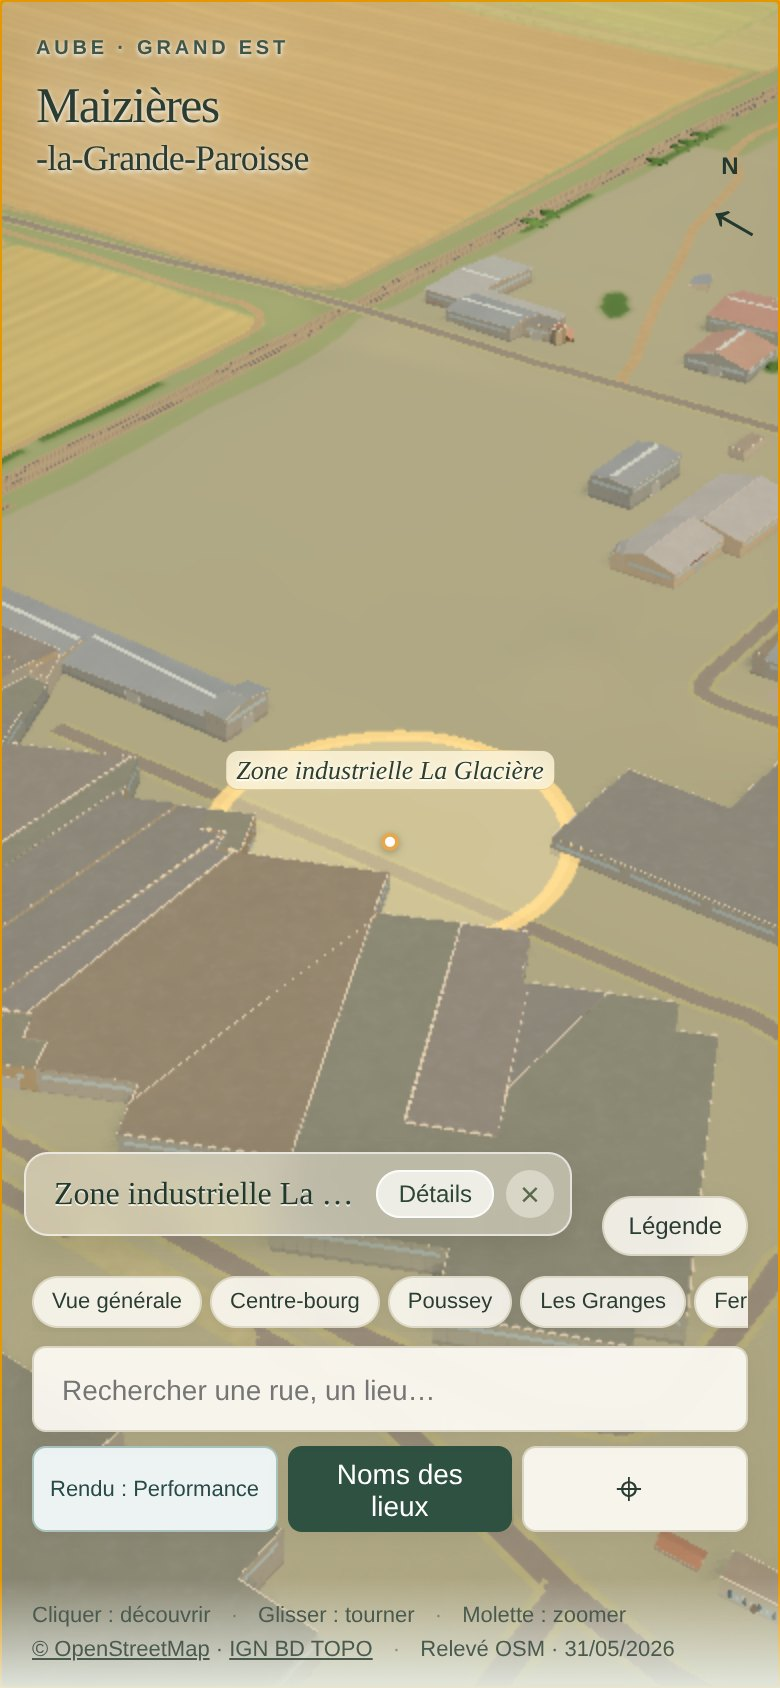
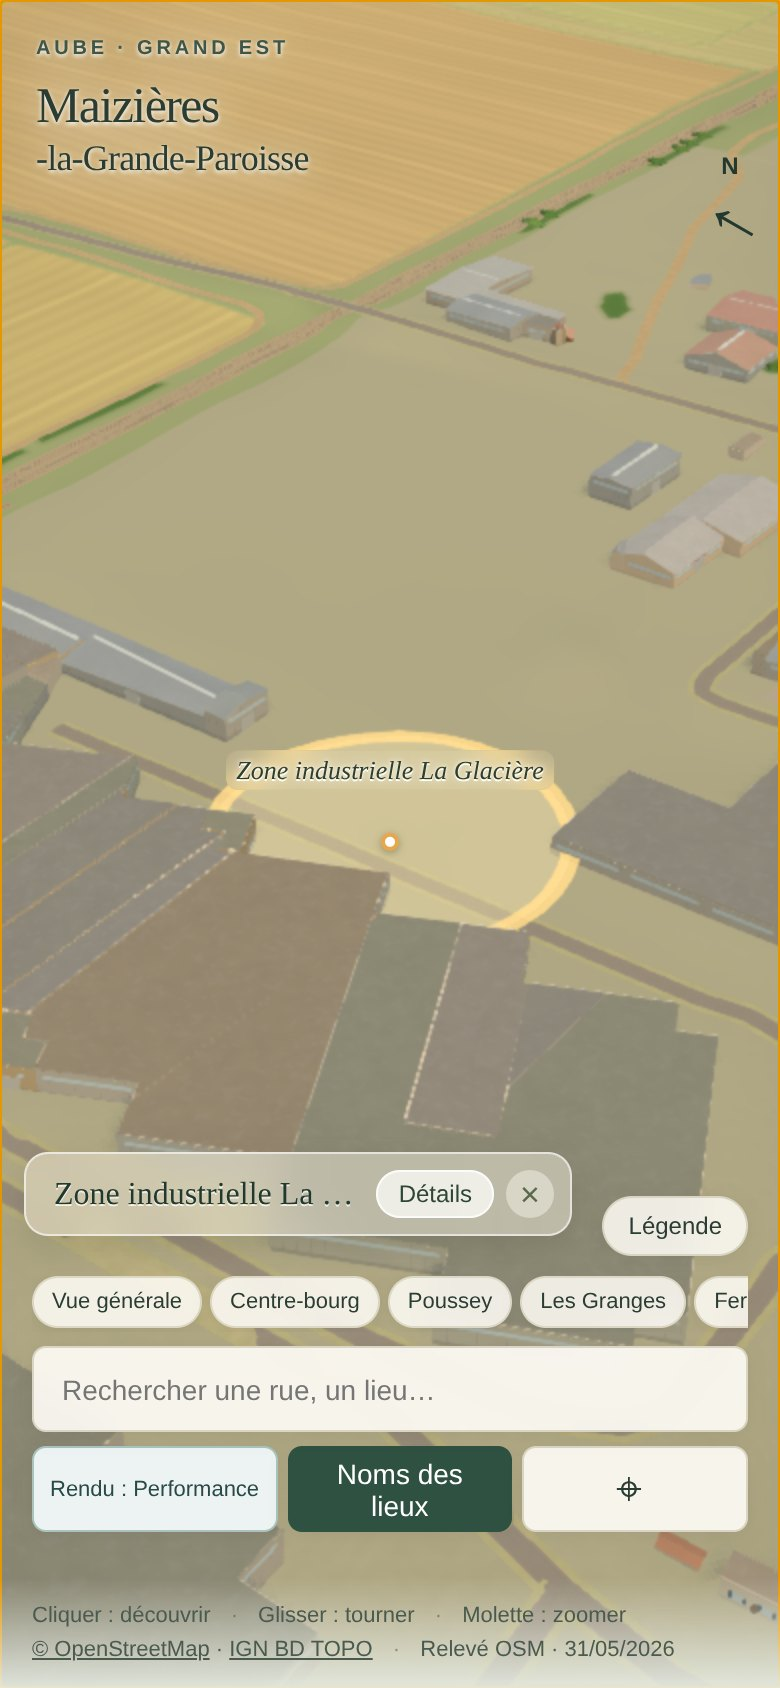
V3.0 - Mobile captures redone with the final build (lite ground, FXAA)
Claude-Session: https://claude.ai/code/session_01KMAuj49r2TEDjaUcKgC9xW

Changed region(s): [[0.2769, 0.4313, 0.7077, 0.4929]]

diff --git a/docs/audit/V3.0_PREMIUM_ENVIRONMENT_ART_PASS.md b/docs/audit/V3.0_PREMIUM_ENVIRONMENT_ART_PASS.md
@@ -132,9 +132,10 @@ La Glacière et les zones d'activité gardent leur caractère fonctionnel :
 Chromium headless, écran tactile émulé, `deviceScaleFactor` 2, preset PERFORMANCE, 390 × 844 et 844 × 390, sept cadrages identiques en V2.9.2 et V3.0 (`docs/qa/v3.0/mobile/`, index et chiffres dans `README.md`).
 
 - **Contours** : la correction des limites se voit aussi sur téléphone. La lisière de bois (`02`) est un escalier de 8 m en V2.9.2 et suit le polygone en V3.0, en portrait comme en paysage ; bords de champs et frange de village sont lisses, sans crénelage, alors que la scène est rendue à un pixel CSS par pixel.
-- **Anti-aliasing** : la V3.0 active SMAA en PERFORMANCE (la V2.9.2 ne l'avait pas dans ce preset). Les silhouettes de toits et de haies sont moins dentelées.
+- **Anticrénelage** : la V3.0 active FXAA (une passe) en PERFORMANCE, où la V2.9.2 n'en avait pas. Les silhouettes de toits et de haies sont moins dentelées. Coût et alternative : § 18.
+- **Sol allégé** : en PERFORMANCE, le shader de sol garde couleurs, limites et sillons mais pas les variations secondaires (prairie, pelouse, sous-bois) : les prairies y sont plus unies.
 - **Fenêtre de détail** : 1 536 px sur 1 000 m (0,65 m par pixel), repeinte au repos.
-- **Coût** : + 2 à + 3 appels de dessin (les passes SMAA), + 0,02 % de triangles (+ 0,8 % sur le centre). Portrait : 47 à 81 appels, 1,77 à 2,40 M triangles ; paysage : 64 à 107 appels, 2,52 à 3,26 M triangles.
+- **Coût** : 0 à + 1 appel de dessin (la passe FXAA), + 0,02 % de triangles (+ 0,8 % sur le centre). Portrait : 48 à 79 appels, 1,77 à 2,40 M triangles ; paysage : 65 à 105 appels, 2,52 à 3,26 M triangles.
 - **Interaction** : église et zone de La Glacière touchées à l'écran, étiquette rapide correcte dans les deux versions ; 2 596 / 2 596 bâtiments, 0 enfoui, console vide. Clics, fiches, recherche et zoom sur trois gabarits : § 22.
 
 
@@ -183,7 +184,7 @@ Grille subjective, notée sur les mêmes captures (BEAUTÉ, 1280 × 800) et sur 
 ## 23. Limites
 
 - **Mesures logicielles.** Tous les chiffres viennent de Chromium headless avec SwiftShader (rendu sur processeur) : ils classent les versions entre elles et ne prédisent pas un GPU réel. Le bruit d'un passage à l'autre atteint ± 5 à 10 % ; d'où les médianes de trois passages alternés (§ 18).
-- **Captures et version finale.** Les captures `compare/`, `environment-edges/` et `mobile/` ont été faites juste avant l'allègement du shader de sol (§ 5, point 5). Sur trois cadrages recapturés après, l'écart moyen est de 0,9 à 1,2 niveau sur 255 par pixel ; les pixels qui diffèrent de plus de 8 niveaux (0,01 à 4,3 %) sont surtout ceux de l'eau animée.
+- **Captures et version finale.** Les captures `compare/` et `environment-edges/` (BEAUTÉ) ont été faites juste avant l'allègement du shader de sol (§ 5, point 5) ; les captures `mobile/` V3.0 ont été refaites avec la version finale. Sur trois cadrages recapturés après, l'écart moyen est de 0,9 à 1,2 niveau sur 255 par pixel ; les pixels qui diffèrent de plus de 8 niveaux (0,01 à 4,3 %) sont surtout ceux de l'eau animée.
 - **Fenêtre de détail.** Elle n'est repeinte qu'au repos ; pendant un déplacement, le sol hors fenêtre utilise la texture globale (1,5 m par texel, sans motif peint, transitions en fondu). Le passage de l'une à l'autre donne un léger gain de netteté à l'arrêt, sans saut de couleur. Au-delà de 2 600 m, la fenêtre est coupée.
 - **Lisières.** Le bord de la canopée suit le polygone, mais la surface reste une grille de 8 m à l'intérieur ; dans un recoin du polygone plus petit qu'une cellule, une corde peut couper l'angle rentrant.
 - **Transitions stylisées.** L'accotement pâle de 2,6 m, l'ourlet de lisière, la frange des jardins et la berge sont des choix de rendu centrés sur la limite réelle, pas des objets cartographiés. Ils n'apparaissent dans aucune donnée et ne changent aucune limite.

diff --git a/docs/qa/v3.0/mobile/README.md b/docs/qa/v3.0/mobile/README.md
@@ -7,14 +7,14 @@ Chromium headless, écran tactile émulé, `deviceScaleFactor` 2, preset PERFORM
 
 | Cadrage | Portrait : appels / triangles (V2.9.2 → V3.0) | Paysage : appels / triangles (V2.9.2 → V3.0) | Toucher |
 |---|---|---|---|
-| 01 centre (église touchée) | 78 / 2 250 523 → 81 / 2 268 006 | 101 / 2 923 685 → 103 / 2 924 268 | Église Saint-Denis, dans les deux versions |
-| 02 lisière de bois | 50 / 2 233 531 → 53 / 2 234 034 | 64 / 2 688 295 → 67 / 2 688 798 | — |
-| 03 frange village | 69 / 2 228 121 → 71 / 2 228 524 | 106 / 2 928 047 → 107 / 2 928 230 | — |
-| 04 champs | 58 / 2 294 039 → 61 / 2 294 462 | 92 / 3 127 539 → 94 / 3 127 462 | — |
-| 05 Poussey | 59 / 2 395 959 → 62 / 2 396 382 | 85 / 3 172 075 → 87 / 3 172 398 | — |
-| 06 La Glacière (zone touchée) | 47 / 1 768 629 → 50 / 1 768 872 | 74 / 2 516 399 → 77 / 2 517 062 | Zone industrielle La Glacière, dans les deux versions |
-| 07 rivière | 54 / 2 270 027 → 57 / 2 270 450 | 90 / 3 261 817 → 92 / 3 262 140 | — |
+| 01 centre (église touchée) | 78 / 2 250 523 → 79 / 2 268 004 | 101 / 2 923 685 → 101 / 2 924 266 | Église Saint-Denis, dans les deux versions |
+| 02 lisière de bois | 50 / 2 233 531 → 51 / 2 234 032 | 64 / 2 688 295 → 65 / 2 688 796 | — |
+| 03 frange village | 69 / 2 228 121 → 69 / 2 228 522 | 106 / 2 928 047 → 105 / 2 928 228 | — |
+| 04 champs | 58 / 2 294 039 → 59 / 2 294 460 | 92 / 3 127 539 → 92 / 3 127 460 | — |
+| 05 Poussey | 59 / 2 395 959 → 60 / 2 396 380 | 85 / 3 172 075 → 85 / 3 172 396 | — |
+| 06 La Glacière (zone touchée) | 47 / 1 768 629 → 48 / 1 768 870 | 74 / 2 516 399 → 75 / 2 517 060 | Zone industrielle La Glacière, dans les deux versions |
+| 07 rivière | 54 / 2 270 027 → 55 / 2 270 448 | 90 / 3 261 817 → 90 / 3 262 138 | — |
 
-Les deux ou trois appels de plus sont les passes SMAA, désormais actives en PERFORMANCE. Triangles : + 0,02 % (+ 0,8 % sur le centre, tirage des familles d'arbres de jardin). 2 596 / 2 596 bâtiments, 0 enfoui, console vide dans les quatre séries.
+Captures V3.0 faites avec la version finale : sol allégé et FXAA en PERFORMANCE (la V2.9.2 n'avait pas d'anticrénelage dans ce preset). Appels : 0 à + 1 (la passe FXAA). Triangles : + 0,02 % (+ 0,8 % sur le centre, tirage des familles d'arbres de jardin). 2 596 / 2 596 bâtiments, 0 enfoui, console vide dans les quatre séries.
 
 Lecture : la lisière de bois (`02`) montre l'escalier de 8 m en V2.9.2 et la vraie limite en V3.0, en portrait comme en paysage ; les bords de champs et la frange de village (`03`, `04`) sont lisses, sans crénelage au pixel près malgré le rendu à 1 pixel CSS.
